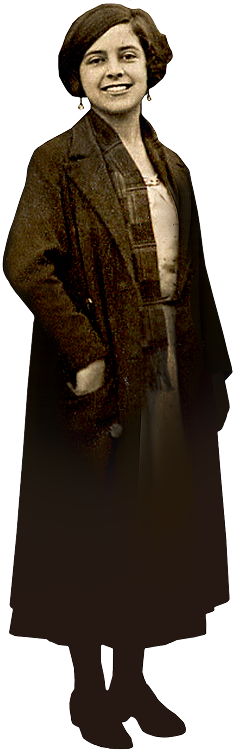
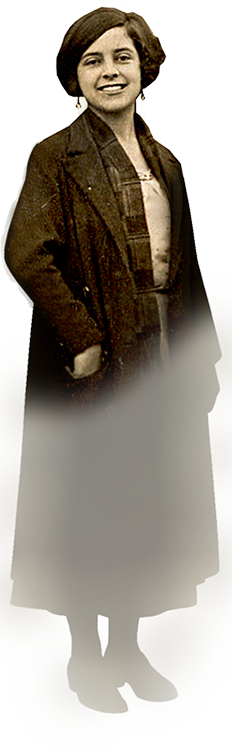
Fosas - actualización fotos nombres propios y represaliados

diff --git a/components/intro/introScreen3.jsx b/components/intro/introScreen3.jsx
@@ -12,9 +12,9 @@ const flechaVolver = "https://css.rtve.es/css/rtve.infografias/fosas_franquismo/
 // Import personajes images
 const personaje5 = "https://css.rtve.es/css/rtve.infografias/fosas_franquismo/i/personajes/5.png";
 const personaje6 = "https://css.rtve.es/css/rtve.infografias/fosas_franquismo/i/personajes/6.png";
-const personaje7 = "https://css.rtve.es/css/rtve.infografias/fosas_franquismo/i/personajes/7.png";
+const personaje7 = "https://css.rtve.es/css/rtve.infografias/fosas_franquismo/i/personajes/7.png?v=2";
 const personaje8 = "https://css.rtve.es/css/rtve.infografias/fosas_franquismo/i/personajes/8.png";
-const personaje9 = "https://css.rtve.es/css/rtve.infografias/fosas_franquismo/i/personajes/9.png";
+const personaje9 = "https://css.rtve.es/css/rtve.infografias/fosas_franquismo/i/personajes/9.png?v=2";
 const personaje10 = "https://css.rtve.es/css/rtve.infografias/fosas_franquismo/i/personajes/10.png";
 import ScrollButton from "../ScrollButton/ScrollButton";
 
